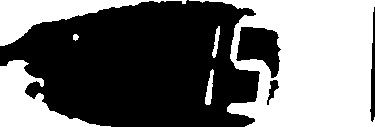
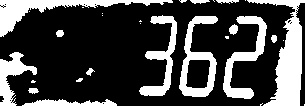
bezig met 127 tm 165

diff --git a/recognize_digits.py b/recognize_digits.py
@@ -3,10 +3,13 @@ from imutils import contours
 import imutils
 import cv2
 import numpy as np
+from PIL import Image
+import os
 
 # Zet op True als je debug info wilt
 DEBUG = True
-TESTIMAGE = "test_images/test2.jpg"
+TESTIMAGE = "test_images/181116-015510.jpg"
+PRINT_CNTS = False
 
 # Maak een dictionary zodat alle getallen hun weergave hebben.
 # 1 betekent segment is aan. 0 betekent segment is uit.
@@ -26,9 +29,13 @@ GETALLEN_DICTIONARY = {
 def writeImage(name, image):
     cv2.imwrite(name + ".jpg",image)
 
-def firstSteps(imagelocation):
-    # laad het plaatje
-    image = cv2.imread(imagelocation)
+def firstSteps(image_location):
+    # Maak een zwarte rand om het plaatje en sla het tijdelijk met de naam:
+    # 'filename' + _border.jpg
+    image_name = add_black_border(image_location)
+
+    # laadt het plaatje
+    image = cv2.imread(image_name)
 
     image = imutils.resize(image, height=500)
     # Maak foto zwart-wit
@@ -54,7 +61,6 @@ def firstSteps(imagelocation):
     img = image.copy()
     # loop over de contouren
     for c in cnts:
-        print("hoi")
         # Benader de contour
         peri = cv2.arcLength(c, True)
         approx = cv2.approxPolyDP(c, 0.02 * peri, True)
@@ -72,13 +78,12 @@ def firstSteps(imagelocation):
     # Centreer het scherm.
     warped = four_point_transform(gray, displayCnt.reshape(4, 2))
     output = four_point_transform(image, displayCnt.reshape(4, 2))
-    blurredwarped = four_point_transform(blurred, displayCnt.reshape(4, 2))
     if DEBUG:
         writeImage("warped", warped)
         writeImage("output", output)
 
-    thresh = cv2.adaptiveThreshold(img,255,cv2.ADAPTIVE_THRESH_MEAN_C,\
-            cv2.THRESH_BINARY,11,2)
+    blur = cv2.GaussianBlur(warped, (7, 7), 0)
+    thresh = cv2.adaptiveThreshold(blur, 255, cv2.ADAPTIVE_THRESH_GAUSSIAN_C, cv2.THRESH_BINARY_INV, 91, 2)
 
     if DEBUG:
         writeImage("thresh", thresh)
@@ -99,17 +104,80 @@ def firstSteps(imagelocation):
         (x, y, w, h) = cv2.boundingRect(c)
 
         # if the contour is sufficiently large, it must be a digit
-        digitCnts.append(c)
-
-    cijfers = output.copy()
-    for d in digitCnts:
-        print("hallo")
-        x, y, w, h = cv2.boundingRect(d)
-        cijfers = cv2.rectangle(cijfers, (x, y), (x + w, y + h), (0, 255, 0), 2)
-        writeImage("displayCnt", cijfers)
+        if w >= 0 and (h >= 20 and h <= 100) and 260 >= x >= 130:
+            print(x)
+            print(y)
+            digitCnts.append(c)
 
     if DEBUG:
+        cijfers = output.copy()
+        for d in digitCnts:
+            x, y, w, h = cv2.boundingRect(d)
+            cijfers = cv2.rectangle(cijfers, (x, y), (x + w, y + h), (0, 255, 0), 2)
         writeImage("cijfers_met_rechthoek", cijfers)
+
+    os.remove(image_name)
+
+    # Sorteer de contouren van links naar rechts.
+    digitCnts = contours.sort_contours(digitCnts,
+                                       method="left-to-right")[0]
+    digits = []
+
+
+    for c in digitCnts:
+        # extract the digit ROI
+        (x, y, w, h) = cv2.boundingRect(c)
+        roi = thresh[y:y + h, x:x + w]
+
+        # compute the width and height of each of the 7 segments
+        # we are going to examine
+        (roiH, roiW) = roi.shape
+        (dW, dH) = (int(roiW * 0.25), int(roiH * 0.15))
+        dHC = int(roiH * 0.05)
+
+        # define the set of 7 segments
+        segments = [
+            ((0, 0), (w, dH)),  # top
+            ((0, 0), (dW, h // 2)),  # top-left
+            ((w - dW, 0), (w, h // 2)),  # top-right
+            ((0, (h // 2) - dHC), (w, (h // 2) + dHC)),  # center
+            ((0, h // 2), (dW, h)),  # bottom-left
+            ((w - dW, h // 2), (w, h)),  # bottom-right
+            ((0, h - dH), (w, h))  # bottom
+        ]
+        on = [0] * len(segments)
+
+    for (i, ((xA, yA), (xB, yB))) in enumerate(segments):
+        # extract the segment ROI, count the total number of
+        # thresholded pixels in the segment, and then compute
+        # the area of the segment
+        segROI = roi[yA:yB, xA:xB]
+        total = cv2.countNonZero(segROI)
+        area = (xB - xA) * (yB - yA)
+
+        # if the total number of non-zero pixels is greater than
+        # 50% of the area, mark the segment as "on"
+        if total / float(area) > 0.5:
+            on[i] = 1
+
+        # lookup the digit and draw it on the image
+    digit = GETALLEN_DICTIONARY[tuple(on)]
+    digits.append(digit)
+    for digi in digits:
+        print(digi)
+
+
+def add_black_border(image):
+    name = os.path.splitext(image)[0]
+    old_im = Image.open(image)
+    old_size = old_im.size
+
+    new_size = (500, 500)
+    new_im = Image.new("RGB", new_size)  ## luckily, this is already black!
+    new_im.paste(old_im, (int((new_size[0] - old_size[0]) / 2),
+                          int((new_size[1] - old_size[1]) / 2)))
+    new_im.save(name + "_border.jpg")
+    return name + "_border.jpg"
 
 def testImage():
     firstSteps(TESTIMAGE)
